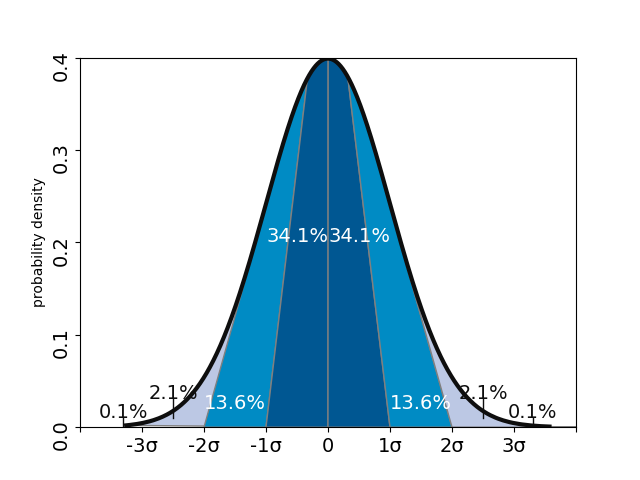
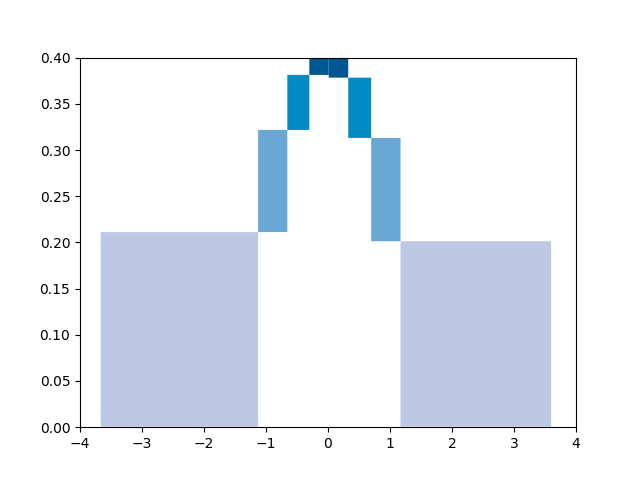
fun

diff --git a/test/test_graphic_tech.py b/test/test_graphic_tech.py
@@ -8,15 +8,14 @@ import unittest,numpy as np
 from graphic.plot import Plot
 from do_statistics.doStats import DoStats
 from mysql_data.decorators_func import singleton
-class TDD_TEST_ND_DATA_RULE(unittest.TestCase):
+class TDD_GRAPHIC_TECH(unittest.TestCase):
     @singleton
     def setUp(self):
         class PlotStat(Plot, DoStats):
             pass
         self.__class__.d = PlotStat()
         l1 = self.d.getND(0, 1, size=8000)
-        sigma = 1
-        mu = 0
+        
         one = self.d.getProbability(σRange=[1, 0])/2*100
         oneσ = str(round(one, 1))+'%'
         two=self.d.getProbability(σRange=[2, 1])/2*100
@@ -36,19 +35,14 @@ class TDD_TEST_ND_DATA_RULE(unittest.TestCase):
             {'position': (3.3, .01), 'txt':fourσ , 'color': self.d.black,'hasLine':True}
         ]
         self.__class__.x = np.array(sorted(l1))
-        self.__class__.plt, self.__class__.ax, self.__class__.y = self.d.drawFunction(x=self.x, σ=sigma, μ=mu)
-    def test_fit_line(self):
-        self.d.drawTxt(self.ax, self.annotation, center=True)
+    def test_fill(self):
+        sigma = 1
+        mu = 0
         colors = ['#005792', '#008BC4', '#69A8D4', '#BCC8E4']
         allCol=list(reversed(colors))+colors
-        oneEighth = 1000
-        self.d.setShadedRegion(self.ax, 0, 2, ix=self.x[ : 2000], iy=self.y[ : 2000], facecolor=allCol[0])
-        for i in range(2,6):
-            oneEighth = 1000
-            self.d.setShadedRegion(self.ax, i-4, i-4 + 1, ix=self.x[i *oneEighth  : i *oneEighth  +oneEighth ], iy=self.y[i *oneEighth  : i *oneEighth  +oneEighth ], facecolor=allCol[i])
-        self.d.setShadedRegion(self.ax, 2, 4, ix=self.x[6000 : ], iy=self.y[6000 : ], facecolor=allCol[0])
-    def test_axis(self):
-        self.plt.setp(self.ax.yaxis.get_majorticklabels(), rotation=90)
+        for i in range(8):
+            self.d.drawFunction(x=self.x[i*1000:i*1000+1000], σ=sigma, μ=mu,isPlot=False,c=allCol[i])
+    def test_graphic_tech(self):
         yLable = 'probability density'
         def format_fn(tick_val, tick_pos):
             if int(tick_val) == 0:
@@ -57,13 +51,12 @@ class TDD_TEST_ND_DATA_RULE(unittest.TestCase):
                 return ''
             else:
                 return '{0}σ'.format(int(tick_val))
-        axisX = [-4, 4]
-        axisY=[0, .4]
-        self.d.setAxes(self.ax,axisX,axisY,yLable,format_fn,plt=self.plt)
-        axisY=np.linspace(0,.4,5)
-        self.ax.set_yticks(axisY)
-        self.plt.yticks(fontsize=14)
-        self.plt.xticks(fontsize=14)
+        x = [-4, 4]
+        y = [0, .4]
+        plt=self.d.getPlt()
+        plt.xlim(x[0], x[1])
+        plt.ylim(y[0], y[1])
+        # self.d.setAxes(self.ax,axisX,axisY,yLable,format_fn,plt=self.plt)
     def test_show(self):
         self.d.saveAndShow()
 if __name__ == '__main__':

diff --git a/graphic/plot.py b/graphic/plot.py
@@ -8,12 +8,14 @@ class Plot(object):
     red='#F11F10'
     white='#fff'
     black = '#0E0E0E'
+    ax=None
+    def getPlt(self):
+        return plt
     # Make the shaded region
 # a, b = 2, 9  # integral limits
     def setShadedRegion(self, ax, a, b,ix=None,iy=None,facecolor='red'):
         def func(x):
             return (x - 3) * (x - 5) * (x - 7) + 85
-
         # Make the shaded region
         if ix is None:
             ix = np.linspace(a, b)
@@ -22,15 +24,18 @@ class Plot(object):
         verts = [(a, 0)] + list(zip(ix, iy)) + [(b, 0)]
         poly = Polygon(verts, facecolor=facecolor, edgecolor='0.5')
         ax.add_patch(poly)
-    def drawFunction(self,ax=None,**kwargs):
+    def drawFunction(self,isPlot=True,ax=None,c=None,**kwargs):
         x=kwargs['x']
         y = self.getProbabilityDensity(**kwargs)
-        if ax is None:
+        if self.ax is None:
             fig, ax = plt.subplots()
-        ax.plot(x, y, '-', c=self.black, linewidth=3)
+            self.ax=ax
+        render = self.ax.plot if isPlot else self.ax.fill
+        c=c if c else self.black
+        # render(x, y, '-', c=c, linewidth=3)
+        plt.fill_between(x,y[0],y[-1],interpolate=False,facecolor=c)
         self.this_function_name = inspect.currentframe().f_code.co_name
-        self.ax=ax
-        return plt,ax,y
+        return plt,self.ax,y
     def plotGroupedBar(
         self,
         l1,

diff --git a/graphic/path_patch.py b/graphic/path_patch.py
@@ -1,0 +1,39 @@
+"""
+================
+PathPatch object
+================
+
+This example shows how to create `Path`\s and `PathPatch` objects through
+Matplotlib's API.
+"""
+import matplotlib.path as mpath
+import matplotlib.patches as mpatches
+import matplotlib.pyplot as plt
+
+
+fig, ax = plt.subplots()
+
+Path = mpath.Path
+path_data = [
+    (Path.MOVETO, (0, 0)),
+    (Path.CURVE4, (0, .4)),
+    # (Path.CURVE4, (-1.75, 2.0)),
+    # (Path.CURVE4, (0.375, 2.0)),
+    # (Path.LINETO, (0.85, 1.15)),
+    # (Path.CURVE4, (2.2, 3.2)),
+    # (Path.CURVE4, (3, 0.05)),
+    # (Path.CURVE4, (2.0, -0.5)),
+    (Path.CLOSEPOLY, (4,0)),
+    ]
+codes, verts = zip(*path_data)
+path = mpath.Path(verts, codes)
+patch = mpatches.PathPatch(path, facecolor='r', alpha=0.5)
+ax.add_patch(patch)
+
+# plot control points and connecting lines
+# x, y = zip(*path.vertices)
+# line, = ax.plot(x, y, 'go-')
+
+ax.grid()
+ax.axis('equal')
+plt.show()

diff --git a/test/test_fun_nd.py b/test/test_fun_nd.py
@@ -1,0 +1,22 @@
+# https://www.mathsisfun.com/data/standard-normal-distribution.html
+import sys
+import os
+PACKAGE_PARENT = '..'
+SCRIPT_DIR = os.path.dirname(os.path.realpath(
+    os.path.join(os.getcwd(), os.path.expanduser(__file__))))
+sys.path.append(os.path.normpath(os.path.join(SCRIPT_DIR, PACKAGE_PARENT)))
+import unittest,numpy as np
+from graphic.plot import Plot
+from do_statistics.doStats import DoStats
+from mysql_data.decorators_func import singleton
+class TDD_TEST_FUN_ND(unittest.TestCase):
+    def test_test_fun_nd(self):
+        d=DoStats()
+        nd=d.getND(0,1)
+        larger=filter(lambda item:item>0,nd)
+        smaller=filter(lambda item:item<0,nd)
+        self.assertAlmostEqual(len(list(larger)),len(list(smaller)),-3)
+if __name__ == '__main__':
+    unittest.main()
+
+                

diff --git a/graphic/fill.py b/graphic/fill.py
@@ -1,0 +1,17 @@
+import numpy as np
+import matplotlib.pyplot as plt
+
+x = np.linspace(0, 1, 500)
+y = np.sin(4 * np.pi * x) * np.exp(-5 * x)
+# First, the most basic fill plot a user can make with matplotlib:
+
+fig, ax = plt.subplots()
+
+# ax.fill(x, y, zorder=10)
+ax.fill(x, y)
+# ax.grid(True, zorder=5)
+
+# x = np.linspace(0, 2 * np.pi, 500)
+# y1 = np.sin(x)
+# y2 = np.sin(3 * x)
+plt.show()
